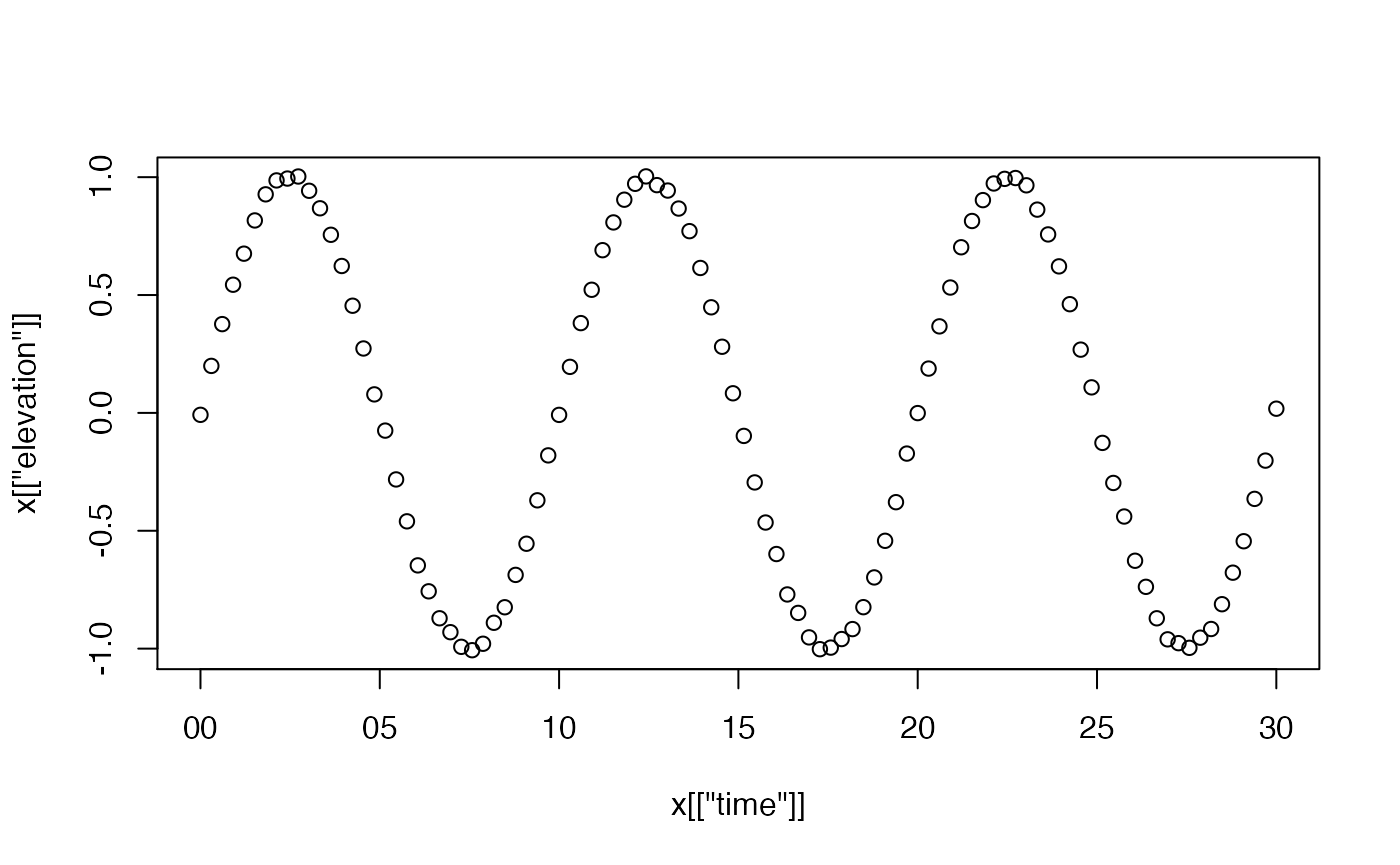
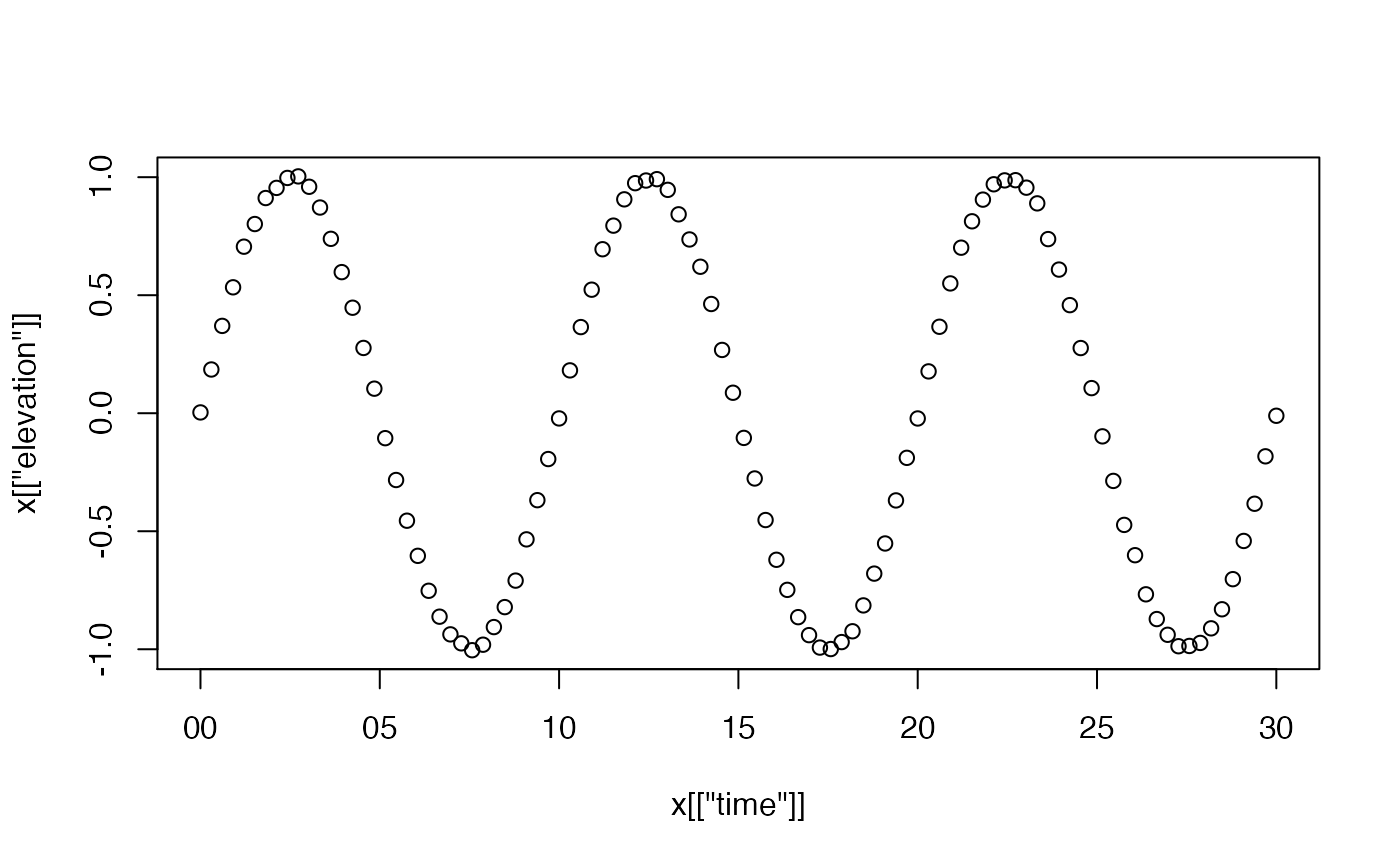
rebuild website

diff --git a/docs/articles/subclassing.html b/docs/articles/subclassing.html
@@ -141,7 +141,7 @@
 <span class="co">#&gt;   .. ..$ flags: list()</span>
 <span class="co">#&gt;   ..@ data         : list()</span>
 <span class="co">#&gt;   ..@ processingLog:List of 2</span>
-<span class="co">#&gt;   .. ..$ time : POSIXct[1:1], format: "2021-01-28 11:50:32"</span>
+<span class="co">#&gt;   .. ..$ time : POSIXct[1:1], format: "2021-01-28 12:41:41"</span>
 <span class="co">#&gt;   .. ..$ value: chr "Create oce object"</span></code></pre></div>
 <p>As noted previously, it’s possible to insert <code>t</code>, <code>u</code>, and <code>v</code> directly into the <code>data</code> slot, but it’s better to use <code>oceSetData</code> to do that, because it can set up units, and it leaves a trail in the processing log.</p>
 <div class="sourceCode" id="cb4"><pre class="downlit sourceCode r">
@@ -164,12 +164,12 @@
 <span class="co">#&gt; </span>
 <span class="co">#&gt; * Processing Log</span>
 <span class="co">#&gt; </span>
-<span class="co">#&gt;     - 2021-01-28 11:50:32 UTC: `Create oce object`</span>
-<span class="co">#&gt;     - 2021-01-28 11:50:32 UTC: `oceSetData(object = o, name = "t", value = t, unit = list(unit = expression(s),     scale = ""))`</span>
-<span class="co">#&gt;     - 2021-01-28 11:50:32 UTC: `oceSetData(object = o, name = "u", value = u, unit = list(unit = expression(m/s),     scale = ""))`</span>
-<span class="co">#&gt;     - 2021-01-28 11:50:32 UTC: `oceSetData(object = o, name = "v", value = v, unit = list(unit = expression(m/s),     scale = ""))`</span>
-<span class="co">#&gt;     - 2021-01-28 11:50:32 UTC: `oceSetMetadata(object = o, name = "longitude", value = lon)`</span>
-<span class="co">#&gt;     - 2021-01-28 11:50:32 UTC: `oceSetMetadata(object = o, name = "latitude", value = lat)`</span></code></pre></div>
+<span class="co">#&gt;     - 2021-01-28 12:41:41 UTC: `Create oce object`</span>
+<span class="co">#&gt;     - 2021-01-28 12:41:41 UTC: `oceSetData(object = o, name = "t", value = t, unit = list(unit = expression(s),     scale = ""))`</span>
+<span class="co">#&gt;     - 2021-01-28 12:41:41 UTC: `oceSetData(object = o, name = "u", value = u, unit = list(unit = expression(m/s),     scale = ""))`</span>
+<span class="co">#&gt;     - 2021-01-28 12:41:41 UTC: `oceSetData(object = o, name = "v", value = v, unit = list(unit = expression(m/s),     scale = ""))`</span>
+<span class="co">#&gt;     - 2021-01-28 12:41:41 UTC: `oceSetMetadata(object = o, name = "longitude", value = lon)`</span>
+<span class="co">#&gt;     - 2021-01-28 12:41:41 UTC: `oceSetMetadata(object = o, name = "latitude", value = lat)`</span></code></pre></div>
 <p>and individual data components may be extracted with the <code><a href="https://rdrr.io/r/base/Extract.html">[[</a></code> notation</p>
 <div class="sourceCode" id="cb7"><pre class="downlit sourceCode r">
 <code class="sourceCode R"><span class="va">o</span><span class="op">[[</span><span class="st">"latitude"</span><span class="op">]</span><span class="op">]</span>                        <span class="co"># from metadata</span>
@@ -247,7 +247,7 @@
 <span class="co">#&gt; </span>
 <span class="co">#&gt; * Processing Log</span>
 <span class="co">#&gt; </span>
-<span class="co">#&gt;     - 2021-01-28 11:50:32 UTC: `create 'uv' object`</span>
+<span class="co">#&gt;     - 2021-01-28 12:41:41 UTC: `create 'uv' object`</span>
 <span class="co">#&gt; NULL</span></code></pre></div>
 <p>Finally, let’s make a custom method for <code>plot</code>. This is usually the most complicated part of handling any new object class, because there are usually many ways to look at data. (Some <code>oce</code> objects have over a dozen specialized plot styles.) Let’s suppose there are only two desired plot styles: one showing timeseries of <code>u</code> and <code>v</code> in a two panel plot, and the other showing how <code>u</code> and <code>v</code> covary.</p>
 <div class="sourceCode" id="cb14"><pre class="downlit sourceCode r">
@@ -319,7 +319,7 @@
 <span class="co">#&gt;   .. ..$ flags: list()</span>
 <span class="co">#&gt;   ..@ data         : list()</span>
 <span class="co">#&gt;   ..@ processingLog:List of 2</span>
-<span class="co">#&gt;   .. ..$ time : POSIXct[1:1], format: "2021-01-28 11:50:33"</span>
+<span class="co">#&gt;   .. ..$ time : POSIXct[1:1], format: "2021-01-28 12:41:42"</span>
 <span class="co">#&gt;   .. ..$ value: chr "Create oce object"</span></code></pre></div>
 <p>Notice that <code>w</code> three <code>oce</code> “slots”, named <code>metadata</code>, <code>data</code> and <code>processingLog</code>. These are inherited from <code>oce</code>. The first is meant to hold information about the data, such as a file-name, an instrument number, a location of sampling, etc. The second is meant to hold actual data or measurements. And the third, not normally accessed by the user directly, holds information about the object’s evolution (note that the object considers itself an <code>oce</code> object). The names of these three slots are usually enough to keep them straight in the analyst’s head, although it can sometimes be difficult deciding whether something belongs in <code>metadata</code> or <code>data</code>.</p>
 <p>The <code>oce</code> system also provides its objects with certain operators and functions. For example, <code><a href="https://rdrr.io/r/base/Extract.html">[[</a></code> can be used to retrieve the slots, items within the slots, and (in some cases) values that may be calculated from the contents of the slots (e.g. <code>ctd</code> and similar objects related to hydrography can return calculated potential temperature or Conservative Temperature, even though neither is typically stored in such datasets).</p>
@@ -352,7 +352,7 @@
 <span class="co">#&gt;   .. ..$ station: chr "STN01"</span>
 <span class="co">#&gt;   ..@ data         : list()</span>
 <span class="co">#&gt;   ..@ processingLog:List of 2</span>
-<span class="co">#&gt;   .. ..$ time : POSIXct[1:1], format: "2021-01-28 11:50:33"</span>
+<span class="co">#&gt;   .. ..$ time : POSIXct[1:1], format: "2021-01-28 12:41:42"</span>
 <span class="co">#&gt;   .. ..$ value: chr "Create oce object"</span></code></pre></div>
 <p>However, there is a better way to insert metadata, with the <code>oceSetMetadata</code> function, e.g.</p>
 <div class="sourceCode" id="cb26"><pre class="downlit sourceCode r">
@@ -382,15 +382,15 @@
 <span class="co">#&gt; * Time ranges from 2019-01-01 to 2019-01-01 00:00:30 with 100 samples and mean increment 0.3030303 s</span>
 <span class="co">#&gt; * Data Overview</span>
 <span class="co">#&gt; </span>
-<span class="co">#&gt;                  Min.       Mean   Max. Dim. NAs OriginalName</span>
-<span class="co">#&gt;     elevation -1.0067 -0.0005197 1.0033  100   0            -</span>
+<span class="co">#&gt;                 Min.       Mean   Max. Dim. NAs OriginalName</span>
+<span class="co">#&gt;     elevation -1.004 -0.0025108 1.0034  100   0            -</span>
 <span class="co">#&gt; </span>
 <span class="co">#&gt; * Processing Log</span>
 <span class="co">#&gt; </span>
-<span class="co">#&gt;     - 2021-01-28 11:50:33 UTC: `Create oce object`</span>
-<span class="co">#&gt;     - 2021-01-28 11:50:34 UTC: `oceSetMetadata(object = w, name = "serialNumber", value = 1234)`</span>
-<span class="co">#&gt;     - 2021-01-28 11:50:34 UTC: `oceSetData(object = w, name = "time", value = t)`</span>
-<span class="co">#&gt;     - 2021-01-28 11:50:34 UTC: `oceSetData(object = w, name = "elevation", value = e)`</span></code></pre></div>
+<span class="co">#&gt;     - 2021-01-28 12:41:42 UTC: `Create oce object`</span>
+<span class="co">#&gt;     - 2021-01-28 12:41:43 UTC: `oceSetMetadata(object = w, name = "serialNumber", value = 1234)`</span>
+<span class="co">#&gt;     - 2021-01-28 12:41:43 UTC: `oceSetData(object = w, name = "time", value = t)`</span>
+<span class="co">#&gt;     - 2021-01-28 12:41:43 UTC: `oceSetData(object = w, name = "elevation", value = e)`</span></code></pre></div>
 <p>This produces a useful summary not just of the data, but also of how the object was constructed. But we can do better. In some crazy world, someone might consider measuring elevation in feet, not metres, and so we ought to specify the unit. The way to do this is with the <code>unit</code> argument of <code>oceSetData</code>. This is a somewhat tricky argument, as a study of the result of <code><a href="../reference/oceSetData.html">?oceSetData</a></code> will reveal. For now, we just show a common way, without explanation, writing</p>
 <div class="sourceCode" id="cb31"><pre class="downlit sourceCode r">
 <code class="sourceCode R"><span class="va">w</span> <span class="op">&lt;-</span> <span class="fu"><a href="../reference/oceSetData.html">oceSetData</a></span><span class="op">(</span><span class="va">w</span>, <span class="st">"elevation"</span>, <span class="va">e</span>, unit<span class="op">=</span><span class="fu"><a href="https://rdrr.io/r/base/list.html">list</a></span><span class="op">(</span>unit<span class="op">=</span><span class="fu"><a href="https://rdrr.io/r/base/expression.html">expression</a></span><span class="op">(</span><span class="va">m</span><span class="op">)</span>,scale<span class="op">=</span><span class="st">""</span><span class="op">)</span><span class="op">)</span></code></pre></div>
@@ -400,16 +400,16 @@
 <span class="co">#&gt; * Time ranges from 2019-01-01 to 2019-01-01 00:00:30 with 100 samples and mean increment 0.3030303 s</span>
 <span class="co">#&gt; * Data Overview</span>
 <span class="co">#&gt; </span>
-<span class="co">#&gt;                      Min.       Mean   Max. Dim. NAs OriginalName</span>
-<span class="co">#&gt;     elevation [m] -1.0067 -0.0005197 1.0033  100   0            -</span>
+<span class="co">#&gt;                     Min.       Mean   Max. Dim. NAs OriginalName</span>
+<span class="co">#&gt;     elevation [m] -1.004 -0.0025108 1.0034  100   0            -</span>
 <span class="co">#&gt; </span>
 <span class="co">#&gt; * Processing Log</span>
 <span class="co">#&gt; </span>
-<span class="co">#&gt;     - 2021-01-28 11:50:33 UTC: `Create oce object`</span>
-<span class="co">#&gt;     - 2021-01-28 11:50:34 UTC: `oceSetMetadata(object = w, name = "serialNumber", value = 1234)`</span>
-<span class="co">#&gt;     - 2021-01-28 11:50:34 UTC: `oceSetData(object = w, name = "time", value = t)`</span>
-<span class="co">#&gt;     - 2021-01-28 11:50:34 UTC: `oceSetData(object = w, name = "elevation", value = e)`</span>
-<span class="co">#&gt;     - 2021-01-28 11:50:34 UTC: `oceSetData(object = w, name = "elevation", value = e, unit = list(unit = expression(m),     scale = ""))`</span></code></pre></div>
+<span class="co">#&gt;     - 2021-01-28 12:41:42 UTC: `Create oce object`</span>
+<span class="co">#&gt;     - 2021-01-28 12:41:43 UTC: `oceSetMetadata(object = w, name = "serialNumber", value = 1234)`</span>
+<span class="co">#&gt;     - 2021-01-28 12:41:43 UTC: `oceSetData(object = w, name = "time", value = t)`</span>
+<span class="co">#&gt;     - 2021-01-28 12:41:43 UTC: `oceSetData(object = w, name = "elevation", value = e)`</span>
+<span class="co">#&gt;     - 2021-01-28 12:41:43 UTC: `oceSetData(object = w, name = "elevation", value = e, unit = list(unit = expression(m),     scale = ""))`</span></code></pre></div>
 <p>Notice that we now have a unit on the elevation, but we  have an indication that the value of that quantity was defined twice. This processing-log feature is one of the big advantages of using <code>oceSetData</code> over direct insertion into an object.</p>
 </div>
 <div id="adding-specialized-functions" class="section level2">
@@ -470,12 +470,12 @@
 <span class="co">#&gt; * Time ranges from 2019-01-01 to 2019-01-01 00:00:30 with 100 samples and mean increment 0.3030303 s</span>
 <span class="co">#&gt; * Data Overview</span>
 <span class="co">#&gt; </span>
-<span class="co">#&gt;                      Min.       Mean   Max. Dim. NAs OriginalName</span>
-<span class="co">#&gt;     elevation [m] -1.0067 -0.0005197 1.0033  100   0            -</span>
+<span class="co">#&gt;                     Min.       Mean   Max. Dim. NAs OriginalName</span>
+<span class="co">#&gt;     elevation [m] -1.004 -0.0025108 1.0034  100   0            -</span>
 <span class="co">#&gt; </span>
 <span class="co">#&gt; * Processing Log</span>
 <span class="co">#&gt; </span>
-<span class="co">#&gt;     - 2021-01-28 11:50:34 UTC: `create 'wave' object`</span></code></pre></div>
+<span class="co">#&gt;     - 2021-01-28 12:41:44 UTC: `create 'wave' object`</span></code></pre></div>
 <p>Notice that the units now appear, without complication to the user. Oh, and this object now knows that it is a <code>wave</code> object, not an <code>oce</code> object  our little class is getting smarter by the minute!</p>
 </div>
 <div id="specializing-the-operator" class="section level2">
@@ -498,9 +498,9 @@
 <p>The test</p>
 <div class="sourceCode" id="cb39"><pre class="downlit sourceCode r">
 <code class="sourceCode R"><span class="va">w</span><span class="op">[[</span><span class="st">"peak"</span><span class="op">]</span><span class="op">]</span>
-<span class="co">#&gt; [1] 1.003287</span>
+<span class="co">#&gt; [1] 1.00336</span>
 <span class="fu"><a href="https://rdrr.io/r/utils/str.html">str</a></span><span class="op">(</span><span class="va">w</span><span class="op">[[</span><span class="st">"elevation"</span><span class="op">]</span><span class="op">]</span><span class="op">)</span>
-<span class="co">#&gt;  num [1:100] -0.00819 0.19937 0.37662 0.54372 0.67545 ...</span></code></pre></div>
+<span class="co">#&gt;  num [1:100] 0.00338 0.18527 0.36998 0.53344 0.70557 ...</span></code></pre></div>
 <p>verifies that our new code works for getting the peak value, and that it falls back to the <code>oce</code> code for other calls.</p>
 </div>
 </div>

diff --git a/docs/reference/as.section.html b/docs/reference/as.section.html
@@ -261,8 +261,8 @@ and these are assembled into a section to be returned.</p>
 #&gt;     2  fake -63.6339  44.6843     181    44
 #&gt; * Processing Log
 #&gt; 
-#&gt;     - 2021-01-28 11:47:42 UTC: `create 'section' object`
-#&gt;     - 2021-01-28 11:47:42 UTC: `as.section(salinity = c("ctd", "fake"))`</div><div class='input'><span class='co'>## vector of CTD objects</span>
+#&gt;     - 2021-01-28 12:38:24 UTC: `create 'section' object`
+#&gt;     - 2021-01-28 12:38:24 UTC: `as.section(salinity = c("ctd", "fake"))`</div><div class='input'><span class='co'>## vector of CTD objects</span>
 <span class='va'>ctds</span> <span class='op'>&lt;-</span> <span class='fu'><a href='https://rdrr.io/r/base/vector.html'>vector</a></span><span class='op'>(</span><span class='st'>"list"</span>, <span class='fl'>2</span><span class='op'>)</span>
 <span class='va'>ctds</span><span class='op'>[[</span><span class='fl'>1</span><span class='op'>]</span><span class='op'>]</span> <span class='op'>&lt;-</span> <span class='va'>ctd</span>
 <span class='va'>ctds</span><span class='op'>[[</span><span class='fl'>2</span><span class='op'>]</span><span class='op'>]</span> <span class='op'>&lt;-</span> <span class='va'>fake</span>
@@ -279,8 +279,8 @@ and these are assembled into a section to be returned.</p>
 #&gt;     2  fake -63.6339  44.6843     181    44
 #&gt; * Processing Log
 #&gt; 
-#&gt;     - 2021-01-28 11:47:42 UTC: `create 'section' object`
-#&gt;     - 2021-01-28 11:47:42 UTC: `as.section(salinity = ctds)`</div><div class='input'><span class='co'>## argo data (a subset)</span>
+#&gt;     - 2021-01-28 12:38:24 UTC: `create 'section' object`
+#&gt;     - 2021-01-28 12:38:24 UTC: `as.section(salinity = ctds)`</div><div class='input'><span class='co'>## argo data (a subset)</span>
 <span class='fu'><a href='https://rdrr.io/r/utils/data.html'>data</a></span><span class='op'>(</span><span class='va'>argo</span><span class='op'>)</span>
 <span class='va'>sec3</span> <span class='op'>&lt;-</span> <span class='fu'>as.section</span><span class='op'>(</span><span class='fu'><a href='https://rdrr.io/r/base/subset.html'>subset</a></span><span class='op'>(</span><span class='va'>argo</span>, <span class='va'>profile</span><span class='op'>&lt;</span><span class='fl'>5</span><span class='op'>)</span><span class='op'>)</span>
 <span class='fu'><a href='https://rdrr.io/r/base/summary.html'>summary</a></span><span class='op'>(</span><span class='va'>sec3</span><span class='op'>)</span>
@@ -297,8 +297,8 @@ and these are assembled into a section to be returned.</p>
 #&gt;     4     4 -22.4160  61.2520      56  1768
 #&gt; * Processing Log
 #&gt; 
-#&gt;     - 2021-01-28 11:47:42 UTC: `create 'section' object`
-#&gt;     - 2021-01-28 11:47:42 UTC: `as.section(salinity = subset(argo, profile &lt; 5))`</div><div class='input'>
+#&gt;     - 2021-01-28 12:38:24 UTC: `create 'section' object`
+#&gt;     - 2021-01-28 12:38:24 UTC: `as.section(salinity = subset(argo, profile &lt; 5))`</div><div class='input'>
 </div></pre>
   </div>
   <div class="col-md-3 hidden-xs hidden-sm" id="pkgdown-sidebar">

diff --git a/docs/reference/as.cm.html b/docs/reference/as.cm.html
@@ -225,7 +225,7 @@ by specifying higher <code>debug</code> values.</p></td>
 </div><div class='output co'>#&gt; Cm summary
 #&gt; ----------
 #&gt; 
-#&gt; * Time ranges from 2021-01-28 07:47:40 to 2021-01-28 07:48:30 with 51 samples and mean increment 1 s
+#&gt; * Time ranges from 2021-01-28 08:38:23 to 2021-01-28 08:39:13 with 51 samples and mean increment 1 s
 #&gt; * Data Overview
 #&gt; 
 #&gt;                        Min.      Mean   Max. Dim. NAs OriginalName
@@ -235,8 +235,8 @@ by specifying higher <code>debug</code> values.</p></td>
 #&gt; 
 #&gt; * Processing Log
 #&gt; 
-#&gt;     - 2021-01-28 11:47:40 UTC: `create 'cm' object`
-#&gt;     - 2021-01-28 11:47:40 UTC: `as.cm(time = t, u = u, v = v, pressure = p)`</div><div class='input'>
+#&gt;     - 2021-01-28 12:38:23 UTC: `create 'cm' object`
+#&gt;     - 2021-01-28 12:38:23 UTC: `as.cm(time = t, u = u, v = v, pressure = p)`</div><div class='input'>
 <span class='co'># Example 2: creation from an adv object</span>
 <span class='fu'><a href='https://rdrr.io/r/utils/data.html'>data</a></span><span class='op'>(</span><span class='va'>adv</span><span class='op'>)</span>
 <span class='fu'><a href='https://rdrr.io/r/base/summary.html'>summary</a></span><span class='op'>(</span><span class='fu'>as.cm</span><span class='op'>(</span><span class='va'>adv</span><span class='op'>)</span><span class='op'>)</span>
@@ -262,7 +262,7 @@ by specifying higher <code>debug</code> values.</p></td>
 #&gt;     - 2015-12-23 17:53:55 UTC: `use aquadoppHR heading; despike own pitch and roll`
 #&gt;     - 2015-12-23 17:54:11 UTC: `beamToXyzAdv(x = x)`
 #&gt;     - 2015-12-23 17:54:34 UTC: `xyzToEnu(x, declination=-18.099, horizontalCase=TRUE, sensorOrientiation=upward, debug=0)`
-#&gt;     - 2021-01-28 11:47:40 UTC: `as.cm(time = adv)`</div><div class='input'>
+#&gt;     - 2021-01-28 12:38:23 UTC: `as.cm(time = adv)`</div><div class='input'>
 </div></pre>
   </div>
   <div class="col-md-3 hidden-xs hidden-sm" id="pkgdown-sidebar">

diff --git a/docs/reference/as.ctd.html b/docs/reference/as.ctd.html
@@ -453,9 +453,9 @@ Engineering</em>, volume <strong>5</strong>, pages 22-23.</p>
 #&gt; 
 #&gt; * Processing Log
 #&gt; 
-#&gt;     - 2021-01-28 11:47:41 UTC: `create 'ctd' object`
-#&gt;     - 2021-01-28 11:47:41 UTC: `as.ctd(salinity = salinity, temperature = temperature, pressure = pressure)`
-#&gt;     - 2021-01-28 11:47:41 UTC: `oceSetData(object = ctd, name = "fluorescence", value = fluo,     unit = list(unit = expression(mg/m^3), scale = ""))`</div><div class='input'>
+#&gt;     - 2021-01-28 12:38:23 UTC: `create 'ctd' object`
+#&gt;     - 2021-01-28 12:38:23 UTC: `as.ctd(salinity = salinity, temperature = temperature, pressure = pressure)`
+#&gt;     - 2021-01-28 12:38:23 UTC: `oceSetData(object = ctd, name = "fluorescence", value = fluo,     unit = list(unit = expression(mg/m^3), scale = ""))`</div><div class='input'>
 <span class='co'>## 2. fake data, with supplied units (which are the defaults, actually)</span>
 <span class='va'>ctd</span> <span class='op'>&lt;-</span> <span class='fu'>as.ctd</span><span class='op'>(</span><span class='va'>salinity</span>, <span class='va'>temperature</span>, <span class='va'>pressure</span>,
     units<span class='op'>=</span><span class='fu'><a href='https://rdrr.io/r/base/list.html'>list</a></span><span class='op'>(</span>salinity<span class='op'>=</span><span class='fu'><a href='https://rdrr.io/r/base/list.html'>list</a></span><span class='op'>(</span>unit<span class='op'>=</span><span class='fu'><a href='https://rdrr.io/r/base/expression.html'>expression</a></span><span class='op'>(</span><span class='op'>)</span>, scale<span class='op'>=</span><span class='st'>"PSS-78"</span><span class='op'>)</span>,

diff --git a/docs/reference/as.sealevel.html b/docs/reference/as.sealevel.html
@@ -299,8 +299,8 @@ with them.</p>
 #&gt; 
 #&gt; * Processing Log
 #&gt; 
-#&gt;     - 2021-01-28 11:47:41 UTC: `create 'sealevel' object`
-#&gt;     - 2021-01-28 11:47:41 UTC: `as.sealevel(elevation = elevation)`</div><div class='input'>
+#&gt;     - 2021-01-28 12:38:24 UTC: `create 'sealevel' object`
+#&gt;     - 2021-01-28 12:38:24 UTC: `as.sealevel(elevation = elevation)`</div><div class='input'>
 <span class='co'># As above, but start at the Y2K time.</span>
 <span class='va'>time</span> <span class='op'>&lt;-</span> <span class='fu'><a href='https://rdrr.io/r/base/as.POSIXlt.html'>as.POSIXct</a></span><span class='op'>(</span><span class='st'>"2000-01-01"</span><span class='op'>)</span> <span class='op'>+</span> <span class='va'>h</span> <span class='op'>*</span> <span class='fl'>3600</span>
 <span class='va'>sl</span> <span class='op'>&lt;-</span> <span class='fu'>as.sealevel</span><span class='op'>(</span><span class='va'>elevation</span>, <span class='va'>time</span><span class='op'>)</span>
@@ -320,8 +320,8 @@ with them.</p>
 #&gt; 
 #&gt; * Processing Log
 #&gt; 
-#&gt;     - 2021-01-28 11:47:41 UTC: `create 'sealevel' object`
-#&gt;     - 2021-01-28 11:47:41 UTC: `as.sealevel(elevation = elevation, time = time)`</div></pre>
+#&gt;     - 2021-01-28 12:38:24 UTC: `create 'sealevel' object`
+#&gt;     - 2021-01-28 12:38:24 UTC: `as.sealevel(elevation = elevation, time = time)`</div></pre>
   </div>
   <div class="col-md-3 hidden-xs hidden-sm" id="pkgdown-sidebar">
     <nav id="toc" data-toggle="toc" class="sticky-top">

diff --git a/docs/reference/read.xbt.html b/docs/reference/read.xbt.html
@@ -232,7 +232,7 @@ https://pages.uoregon.edu/drt/MGL0910_Science_Report/attachments/MK21_ISA_Manual
 </div><div class='output co'>#&gt; xbt summary
 #&gt; -----------
 #&gt; 
-#&gt; * File source:        "/private/var/folders/8b/l4h64m1j22v5pb7vj049ff140000gn/T/RtmpBIYTK7/temp_libpath1486f317f3be0/oce/extdata/xbt.edf"
+#&gt; * File source:        "/private/var/folders/8b/l4h64m1j22v5pb7vj049ff140000gn/T/Rtmpmb2Wwx/temp_libpath157dfdc4a88e/oce/extdata/xbt.edf"
 #&gt; * Serial Number:      0
 #&gt; * Longitude:          4.005
 #&gt; * Latitude:           -4
@@ -246,8 +246,8 @@ https://pages.uoregon.edu/drt/MGL0910_Science_Report/attachments/MK21_ISA_Manual
 #&gt; 
 #&gt; * Processing Log
 #&gt; 
-#&gt;     - 2021-01-28 11:49:04 UTC: `create 'xbt' object`
-#&gt;     - 2021-01-28 11:49:04 UTC: `read.xbt.edf(file = file)`</div><div class='input'><span class='fu'><a href='https://rdrr.io/r/graphics/plot.default.html'>plot</a></span><span class='op'>(</span><span class='va'>xbt</span><span class='op'>)</span>
+#&gt;     - 2021-01-28 12:39:59 UTC: `create 'xbt' object`
+#&gt;     - 2021-01-28 12:39:59 UTC: `read.xbt.edf(file = file)`</div><div class='input'><span class='fu'><a href='https://rdrr.io/r/graphics/plot.default.html'>plot</a></span><span class='op'>(</span><span class='va'>xbt</span><span class='op'>)</span>
 </div><div class='img'><img src='read.xbt-1.png' alt='' width='700' height='433' /></div><div class='input'>
 </div></pre>
   </div>

diff --git a/docs/reference/tidem.html b/docs/reference/tidem.html
@@ -459,8 +459,8 @@ Computers and Geosciences, 28, 929-937.</p>
 #&gt; Signif. codes:  0 ‘***’ 0.001 ‘**’ 0.01 ‘*’ 0.05 ‘.’ 0.1 ‘ ’ 1
 #&gt; * Processing Log
 #&gt; 
-#&gt;     - 2021-01-28 11:49:46 UTC: `create 'tidem' object`
-#&gt;     - 2021-01-28 11:49:46 UTC: `tidem(t = sealevelTuktoyaktuk)`</div><div class='input'>
+#&gt;     - 2021-01-28 12:40:48 UTC: `create 'tidem' object`
+#&gt;     - 2021-01-28 12:40:48 UTC: `tidem(t = sealevelTuktoyaktuk)`</div><div class='input'>
 <span class='co'># AIC analysis</span>
 <span class='fu'><a href='https://rdrr.io/r/stats/extractAIC.html'>extractAIC</a></span><span class='op'>(</span><span class='va'>tide</span><span class='op'>[[</span><span class='st'>"model"</span><span class='op'>]</span><span class='op'>]</span><span class='op'>)</span>
 </div><div class='output co'>#&gt; [1]   71.0000 -606.0823</div><div class='input'>
@@ -493,8 +493,8 @@ Computers and Geosciences, 28, 929-937.</p>
 #&gt; Signif. codes:  0 ‘***’ 0.001 ‘**’ 0.01 ‘*’ 0.05 ‘.’ 0.1 ‘ ’ 1
 #&gt; * Processing Log
 #&gt; 
-#&gt;     - 2021-01-28 11:49:46 UTC: `create 'tidem' object`
-#&gt;     - 2021-01-28 11:49:46 UTC: `tidem(t = sl)`</div><div class='input'>
+#&gt;     - 2021-01-28 12:40:48 UTC: `create 'tidem' object`
+#&gt;     - 2021-01-28 12:40:48 UTC: `tidem(t = sl)`</div><div class='input'>
 </div></pre>
   </div>
   <div class="col-md-3 hidden-xs hidden-sm" id="pkgdown-sidebar">

diff --git a/docs/reference/read.xbt.edf.html b/docs/reference/read.xbt.edf.html
@@ -214,7 +214,7 @@ can find a way to otherwise silence the NOTE.</p>
 </div><div class='output co'>#&gt; xbt summary
 #&gt; -----------
 #&gt; 
-#&gt; * File source:        "/private/var/folders/8b/l4h64m1j22v5pb7vj049ff140000gn/T/RtmpBIYTK7/temp_libpath1486f317f3be0/oce/extdata/xbt.edf"
+#&gt; * File source:        "/private/var/folders/8b/l4h64m1j22v5pb7vj049ff140000gn/T/Rtmpmb2Wwx/temp_libpath157dfdc4a88e/oce/extdata/xbt.edf"
 #&gt; * Serial Number:      0
 #&gt; * Longitude:          4.005
 #&gt; * Latitude:           -4
@@ -228,8 +228,8 @@ can find a way to otherwise silence the NOTE.</p>
 #&gt; 
 #&gt; * Processing Log
 #&gt; 
-#&gt;     - 2021-01-28 11:49:05 UTC: `create 'xbt' object`
-#&gt;     - 2021-01-28 11:49:05 UTC: `read.xbt.edf(file = file)`</div><div class='input'><span class='fu'><a href='https://rdrr.io/r/graphics/plot.default.html'>plot</a></span><span class='op'>(</span><span class='va'>xbt</span><span class='op'>)</span>
+#&gt;     - 2021-01-28 12:39:59 UTC: `create 'xbt' object`
+#&gt;     - 2021-01-28 12:39:59 UTC: `read.xbt.edf(file = file)`</div><div class='input'><span class='fu'><a href='https://rdrr.io/r/graphics/plot.default.html'>plot</a></span><span class='op'>(</span><span class='va'>xbt</span><span class='op'>)</span>
 </div><div class='img'><img src='read.xbt.edf-1.png' alt='' width='700' height='433' /></div><div class='input'>
 </div></pre>
   </div>

diff --git a/docs/reference/initialize-ctd-method.html b/docs/reference/initialize-ctd-method.html
@@ -301,7 +301,7 @@ on elements stored in <code>ctd</code> objects.</p>
 #&gt; 
 #&gt; * Processing Log
 #&gt; 
-#&gt;     - 2021-01-28 11:48:05 UTC: `create 'ctd' object`</div><div class='input'><span class='fu'><a href='https://rdrr.io/r/graphics/plot.default.html'>plot</a></span><span class='op'>(</span><span class='va'>ctd</span>, eos<span class='op'>=</span><span class='st'>"unesco"</span><span class='op'>)</span>
+#&gt;     - 2021-01-28 12:38:52 UTC: `create 'ctd' object`</div><div class='input'><span class='fu'><a href='https://rdrr.io/r/graphics/plot.default.html'>plot</a></span><span class='op'>(</span><span class='va'>ctd</span>, eos<span class='op'>=</span><span class='st'>"unesco"</span><span class='op'>)</span>
 </div><div class='img'><img src='initialize-ctd-method-1.png' alt='' width='700' height='433' /></div><div class='input'>
 <span class='co'>## 3. as 2, but insert location and plot with GSW equation of state.</span>
 <span class='va'>ctd</span> <span class='op'>&lt;-</span> <span class='fu'><a href='oceSetMetadata.html'>oceSetMetadata</a></span><span class='op'>(</span><span class='va'>ctd</span>, <span class='st'>"latitude"</span>, <span class='fl'>44</span><span class='op'>)</span>

diff --git a/docs/reference/ctd-class.html b/docs/reference/ctd-class.html
@@ -369,8 +369,8 @@ and sufficiently skilled users may even manipulate the contents directly.</p>
 #&gt; 
 #&gt; * Processing Log
 #&gt; 
-#&gt;     - 2021-01-28 11:47:50 UTC: `create 'ctd' object`
-#&gt;     - 2021-01-28 11:47:50 UTC: `as.ctd(salinity = 35 + 1:3/10, temperature = 10 - 1:3/10, pressure = 1:3)`</div><div class='input'>
+#&gt;     - 2021-01-28 12:38:34 UTC: `create 'ctd' object`
+#&gt;     - 2021-01-28 12:38:34 UTC: `as.ctd(salinity = 35 + 1:3/10, temperature = 10 - 1:3/10, pressure = 1:3)`</div><div class='input'>
 <span class='co'># 2. Fix a typo in a station latitude (fake! it's actually okay)</span>
 <span class='fu'><a href='https://rdrr.io/r/utils/data.html'>data</a></span><span class='op'>(</span><span class='va'>ctd</span><span class='op'>)</span>
 <span class='va'>ctd</span> <span class='op'>&lt;-</span> <span class='fu'><a href='oceSetMetadata.html'>oceSetMetadata</a></span><span class='op'>(</span><span class='va'>ctd</span>, <span class='st'>"latitude"</span>, <span class='va'>ctd</span><span class='op'>[[</span><span class='st'>"latitude"</span><span class='op'>]</span><span class='op'>]</span><span class='op'>-</span><span class='fl'>0.001</span>,

diff --git a/docs/articles/adp.html b/docs/articles/adp.html
@@ -320,8 +320,8 @@
 <span class="co">#&gt; Signif. codes:  0 '***' 0.001 '**' 0.01 '*' 0.05 '.' 0.1 ' ' 1</span>
 <span class="co">#&gt; * Processing Log</span>
 <span class="co">#&gt; </span>
-<span class="co">#&gt;     - 2021-01-28 11:49:58 UTC: `create 'tidem' object`</span>
-<span class="co">#&gt;     - 2021-01-28 11:49:58 UTC: `tidem(t = as.sealevel(pressure, time))`</span></code></pre></div>
+<span class="co">#&gt;     - 2021-01-28 12:41:03 UTC: `create 'tidem' object`</span>
+<span class="co">#&gt;     - 2021-01-28 12:41:03 UTC: `tidem(t = as.sealevel(pressure, time))`</span></code></pre></div>
 <p>(Note that it fitted for M2, but not S2, because the Rayleigh criterion prevents inferring both, and the conventional tidal analysis favours M2 over S2 if the time series is too short to fit for more than one semi-diurnal constituent.)</p>
 <p>A useful step might be to draw a tidal fit along with the data. It makes sense to construct a finer time grid, to get a smooth curve, as in the following (see <code><a href="../reference/predict.tidem.html">?predict.tidem</a></code>).</p>
 <div class="sourceCode" id="cb26"><pre class="downlit sourceCode r">

diff --git a/docs/reference/read.adp.rdi.html b/docs/reference/read.adp.rdi.html
@@ -601,7 +601,7 @@ P/N 957-6171-00 (June 2001) <code>WinRiver User Guide International Version.pdf.
 #&gt; * Instrument:         adcp
 #&gt; * Serial number:      unknown
 #&gt; * Firmware version:   16.28
-#&gt; * Source filename:    ``/private/var/folders/8b/l4h64m1j22v5pb7vj049ff140000gn/T/RtmpBIYTK7/temp_libpath1486f317f3be0/oce/extdata/adp_rdi.000``
+#&gt; * Source filename:    ``/private/var/folders/8b/l4h64m1j22v5pb7vj049ff140000gn/T/Rtmpmb2Wwx/temp_libpath157dfdc4a88e/oce/extdata/adp_rdi.000``
 #&gt; * Location:           unknown latitude, unknown longitude
 #&gt; * Number of profiles: 9 
 #&gt; * Number of cells:    84 
@@ -656,7 +656,7 @@ P/N 957-6171-00 (June 2001) <code>WinRiver User Guide International Version.pdf.
 #&gt; 
 #&gt; * Processing Log
 #&gt; 
-#&gt;     - 2021-01-28 11:48:56 UTC: `read.adp.rdi(file = system.file("extdata", "adp_rdi.000", package = "oce"))`</div><div class='input'>
+#&gt;     - 2021-01-28 12:39:49 UTC: `read.adp.rdi(file = system.file("extdata", "adp_rdi.000", package = "oce"))`</div><div class='input'>
 </div></pre>
   </div>
   <div class="col-md-3 hidden-xs hidden-sm" id="pkgdown-sidebar">
